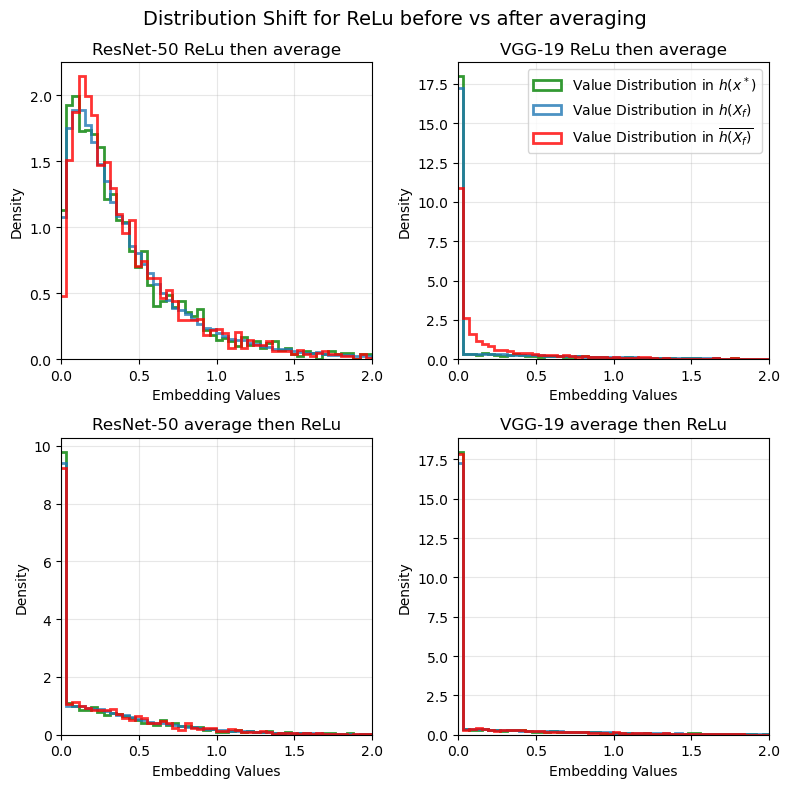
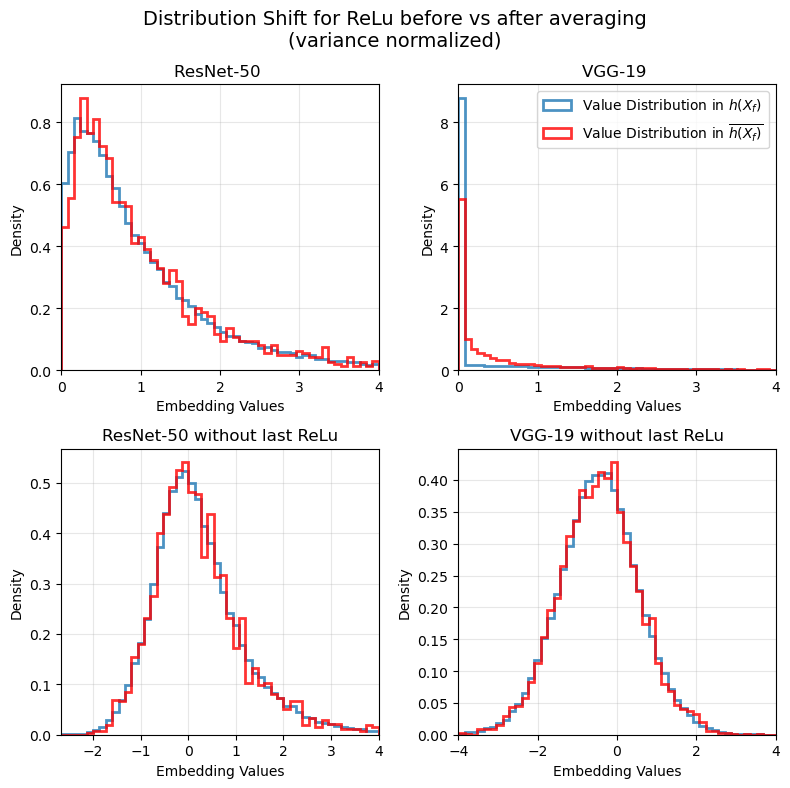
plot adjusted

diff --git a/report/main.tex b/report/main.tex
@@ -52,17 +52,23 @@ We take the resolution steps used in~\cite{kazemiWhatWeLearn2024} and find addin
 
 At each iteration, we update the reconstruction $x$ in the possibly smaller space $\mathbb{R}^{3\times n \times n}$ from which we retrieve the full size reconstruction proposal $\mathbb{R}^{3\times N \times N}\ni\hat{x} = S_N(x)$ by using a differentiable scaling function $S_k:\mathbb{R}^{3\times n \times n}\rightarrow\mathbb{R}^{3\times k \times k}$.
 The next reconstruction $x$ is determined by
-$$
+\begin{equation}\label{eq:update_rule}
 x^{(t)} = S_{n_t}\left(x^{(t-1)} - \eta \dfrac{\nabla \mathcal{L}(x^{(t-1)}, y^*)}{\|\nabla \mathcal{L}(x^{(t-1)}, y^*)\|_2}\right),
-$$
+\end{equation}
 where $t$ denotes the iteration step, $n_t$ the resolution at step $t$, $\eta$ is the learning rate, and $\mathcal{L}$ the loss function.
 This process is repeated for 3000 iterations after which no notable improvement was noticed in practice.
+Normally we perform multiple reconstructions in parallel, because the result depends on the initialization $x^{(0)}$.
+We denote such a set of equally constructed reconstructions as $X^{(t)} = \{x^{(t)}_0, x^{(t)}_1, \dots, x^{(t)}_{m-1}\}$ where $m$ is the number of parallel reconstructions.
 
 For now, the loss function $\mathcal{L}$ is defined as
-$$
-\mathcal{L}(x, y^*) = d(f(A(S_N(x))), y^*) + \mathcal{R}(S_N(x)),
-$$
-where $A$ is a randomized augmentation function as described in Section~\ref{augs}, and $d$ is a distance function that is dependent on the used backbone $f$ and $\mathcal{R}$ is a regularization term as described in Section~\ref{reg}.
+\begin{equation}\label{eq:loss_function_base}
+\mathcal{L}(x, y^*) = \mathcal{L}_{f}(x, y^*) + \lambda_\mathcal{R}\cdot\mathcal{R}(S_N(x)),
+\end{equation}
+with
+\begin{equation}\label{eq:loss_function_f}
+    \mathcal{L}_f(x, y^*) = d_{f}(f(A(S_N(x))), y^*),
+\end{equation}
+where $A$ is a randomized augmentation function as described in Section~\ref{augs}, and $d_f$ is a distance function that is dependent on the used backbone $f$ and $\mathcal{R}$ is a regularization term as described in Section~\ref{reg}.
 
 \subsection{Augmentations}\label{augs}
 As proposed in~\cite{ghiasiPlugInInversionModelAgnostic2021} we employ a set of differentiable augmentations to improve the robustness of the reconstruction.
@@ -88,7 +94,6 @@ This quadratic dead zone penalty function allows for punishment-free variation i
 The use of this penalty function makes sure, that the this regularization term does not loose importance when adding additional terms to the objective function of the optimization.
 A parameter selection of $\alpha = 0.3$ and $\beta = 10$ was found to yield good results in practice.\footnote{We could pin this to the avg value of e.g. Imagenet Data.}
 
-\section{Experiments}
 \subsection{Impact of Inverted Model}
 The reconstruction method described in Section~\ref{base_method} yields visibly different results when using different backbones $f$.
 It is to note, that the reconstruction for different backbones does not strictly yield better or worse reconstructions, but rather reconstruction with qualitatively different details.
@@ -115,7 +120,7 @@ However, this behaviour does not apply to reconstructions: for a reconstruction 
 The same is true for two different reconstructions $\hat x_{f,0}$ and $\hat x_{f,1}$: while $f(\hat x_{f,0})\approx f(\hat x_{f,1})$ we observe $h(\hat x_{f,0})\not\approx h(\hat x_{f,1})$.
 
 Furthermore, if we have a set of reconstruction $X_f = \{\hat x_{f,0}, \hat x_{f,1}, \dots\}$ we observe that that the average embedding under $h$ of the reconstructions $X_f$ is closer to the embedding und $h$ of the private image then the average distance of the reconstructions: $$d_h\left(\overline{h(X_f)}, h(x^*)\right) < \overline{d_h(h(X_f), h(x^*))}.$$
-We often observe the even stronger statement, that the averaged embedding is closer to the embedding of the private image then every single reconstruction: $$\forall\hat x \in X_f: d_h\left(\overline{h(X_f)}, h(x^*)\right) < d_h(h(\hat x), h(x^*)).$$
+We often observe the even stronger statement, that the averaged embedding is closer to the embedding of the private image then every single reconstruction: $$\forall\hat x_f \in X_f: d_h\left(\overline{h(X_f)}, h(x^*)\right) < d_h(h(\hat x_f), h(x^*)).$$
 This effect can be seen in figure~\ref{fig:avg_distance_scatter}.
 \begin{figure}[ht]
     \centering
@@ -141,23 +146,33 @@ This idea is illustrated in figure~\ref{fig:avg_embedding_sketch}.
 \subsection{Combining Multiple Backbones}
 To potentially make use of this we explored multiple methods to incorporate the average in the foreign embedding space during the reconstruction process.
 
-Since most of the used networks apply a ReLu activation to their outputs, simply calculating the arithmetic average in each coordinate leads to a huge distribution shift of the embeddings.
-To reduce that shift, we can perform the averaging in the latent space before applying the ReLu activation.
+Since most of the used networks apply a ReLu activation as their last non-linearity, simply calculating the arithmetic average in each coordinate leads to a huge shift in the shape of the distribution of embeddings.
+To reduce that shift, we can perform the averaging in the latent space before applying the last ReLu activation.
 The effect of this can bee seen in figure~\ref{fig:relu_norelu_distribution_shift}.
+We perform the experiments on both, the truncated and the original backbones.
 
 \begin{figure}[ht]
     \centering
     \includegraphics[width=\linewidth]{figures/relu-norelu-distribution-shift.png}
     \caption{
        Distribution of embeddings in different backbones.
-       Top: Average calculated after ReLu activation.
-       Bottom: Average calculated before ReLu activation.
+       Top: Value distribution under original backbone.
+       Bottom: Value distribution under modified backbone with the last ReLu removed.
     }
     \label{fig:relu_norelu_distribution_shift}
 \end{figure}
 
+We incorporate the average embedding in a foreign space by extending loss function from equation~\ref{eq:loss_function_base}:
+\begin{equation}\label{eq:loss_function}
+\mathcal{L}(x, y^*, y_h) = \mathcal{L}_{f}(x, y^*) + \lambda_h \cdot \mathcal{L}_{h}(x, y_h) + \lambda_{\mathcal{R}}\cdot\mathcal{R}(S_N(x))
+\end{equation}
+where $\mathcal{L}_{h}$ is defined as in equation~\ref{eq:loss_function_f} and $y_h$ is a element in the foreign space.
+We will choose $y_h$ to either be $\overline{h(X^{(t)})}$, the average embedding of the current reconstructions in the foreign space, or $\overline{h(X_f)}$, the average embedding of reconstructions of previously completed reconstruction run with the loss function from equation~\ref{eq:loss_function_base}.
+
 \section{Results}
-Presentation and analysis of experimental results. Include tables and figures as needed.
+We conducted a series of experiments to evaluate the effectiveness of the proposed method.
+We experimented with different choices of the foreign backbone $h$ and the construction of $y_h$.
+
 
 \section{Discussion}
 Interpretation of results, limitations, and potential improvements.
